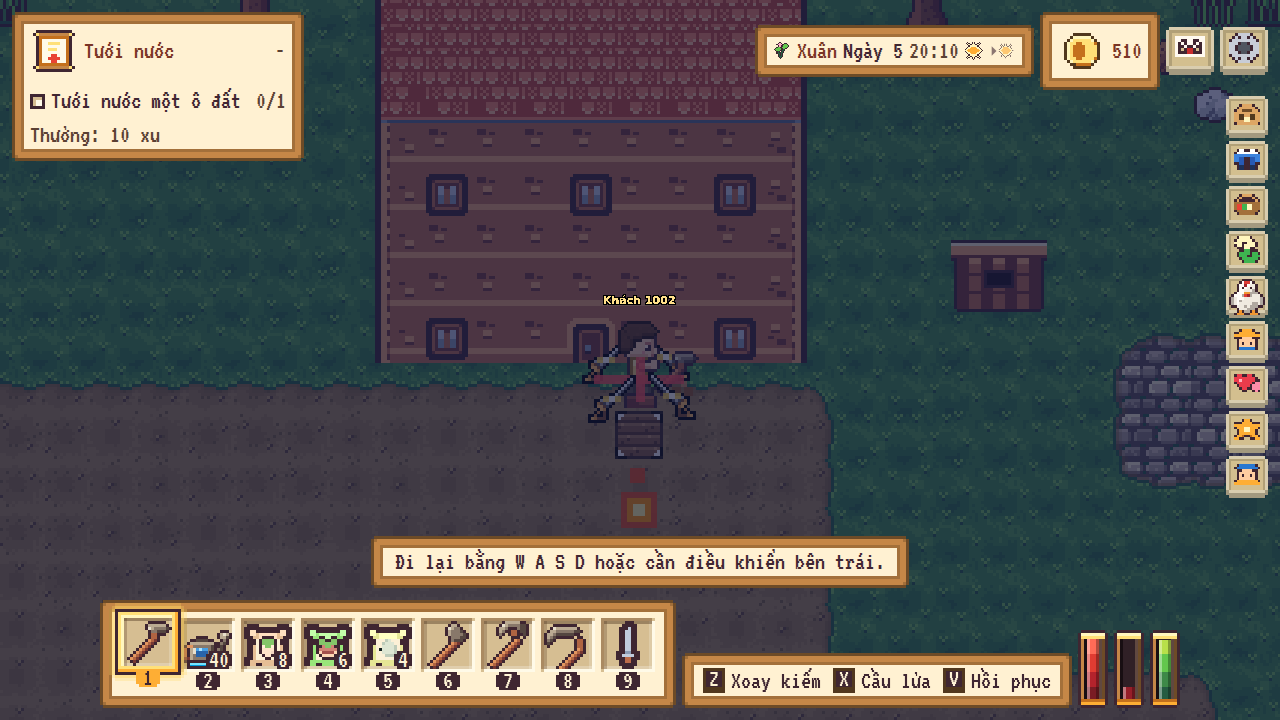
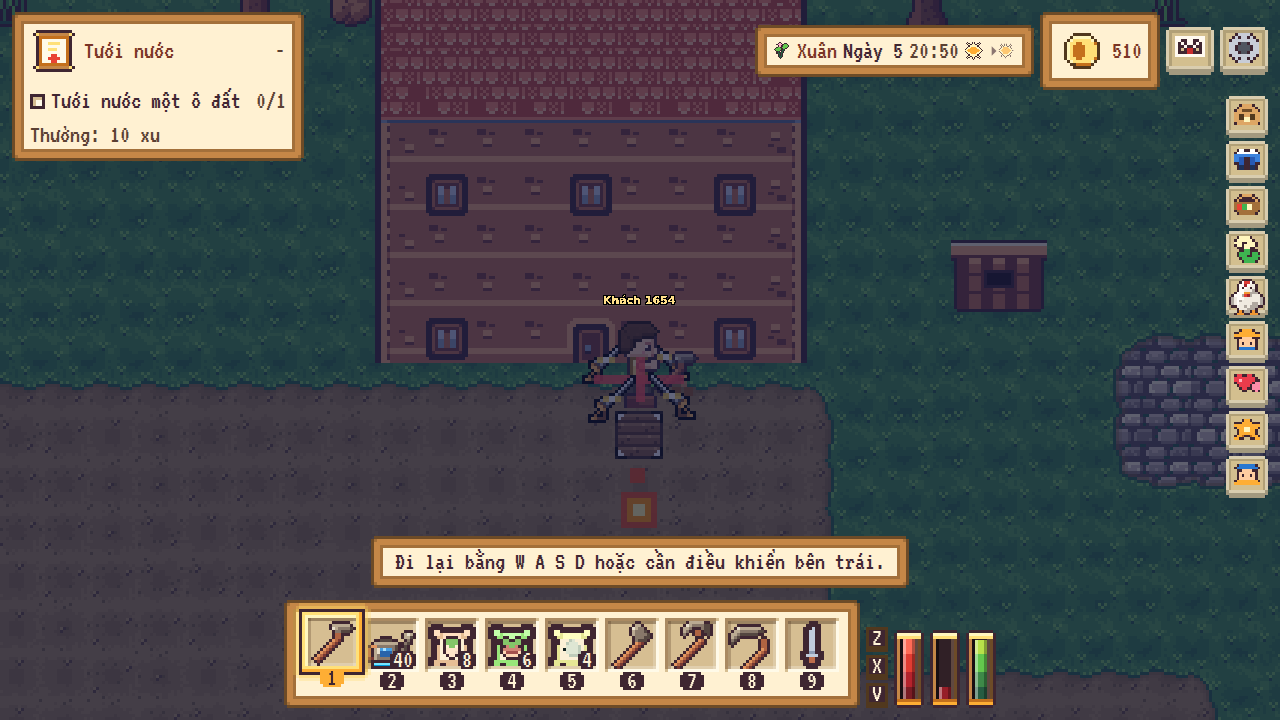
wasm: compact Z/X/V skill buttons into vertical key-cap column beside hotbar gauges
- Replace the wide horizontal skill strip in Hotbar.razor with a compact 26u-tall vertical column of Z, X, and V key-cap buttons (.hotbar-skills) aligned with the HP/MP/Energy gauges.
- Move skill labels and descriptions into multi-line hover tooltips (data-tip) and aria-label to eliminate bottom-screen text clutter.

diff --git a/wasm/Nosum.Wasm.Controls/Inventory/Hotbar.razor.css b/wasm/Nosum.Wasm.Controls/Inventory/Hotbar.razor.css
@@ -10,6 +10,16 @@
     padding: var(--u) var(--u) calc(var(--u) * 7);
 }
 
+.hotbar-skills {
+    display: flex;
+    flex-direction: column;
+    gap: var(--u);
+}
+
+.hotbar-skills ::deep .game-button.chip {
+    padding: 0;
+}
+
 /* Narrow screens (a phone held upright): the slots make two rows of five instead of one row that does not fit (docs/adr/ADR-033 D2). */
 @media (max-width: 640px) {
     .hotbar-slots {

diff --git a/tests/Nosum.UnitTests/Wasm/ThemeSpritesTests.cs b/tests/Nosum.UnitTests/Wasm/ThemeSpritesTests.cs
@@ -90,14 +90,18 @@ public sealed partial class ThemeSpritesTests
     }
 
     [Fact]
-    public void KeyStrips_UseGameButtonChipVariant_InsteadOfRawButtonsOrHeavyStoneButtons()
+    public void KeyStrips_UseGameButtonChipVariant_AndHotbarSkillsAreCompactKeyCapsWithoutTextClutter()
     {
         string root = RepositoryRoot();
         string hotbar = File.ReadAllText(Path.Combine(root, "wasm", "Nosum.Wasm.Controls", "Inventory", "Hotbar.razor"));
+        string hotbarCss = File.ReadAllText(Path.Combine(root, "wasm", "Nosum.Wasm.Controls", "Inventory", "Hotbar.razor.css"));
         string placement = File.ReadAllText(Path.Combine(root, "wasm", "Nosum.Wasm.Controls", "Placement", "PlacementPanel.razor"));
 
         hotbar.Should().Contain("Variant=\"chip\"");
         hotbar.Should().NotContain("Variant=\"plain\"");
+        hotbar.Should().Contain("class=\"hotbar-skills\"");
+        hotbar.Should().NotContain("<span>@Progress.WhirlwindLabel</span>");
+        hotbarCss.Should().Contain(".hotbar-skills");
         placement.Should().Contain("Variant=\"chip\"");
         placement.Should().NotContain("<button");
     }
